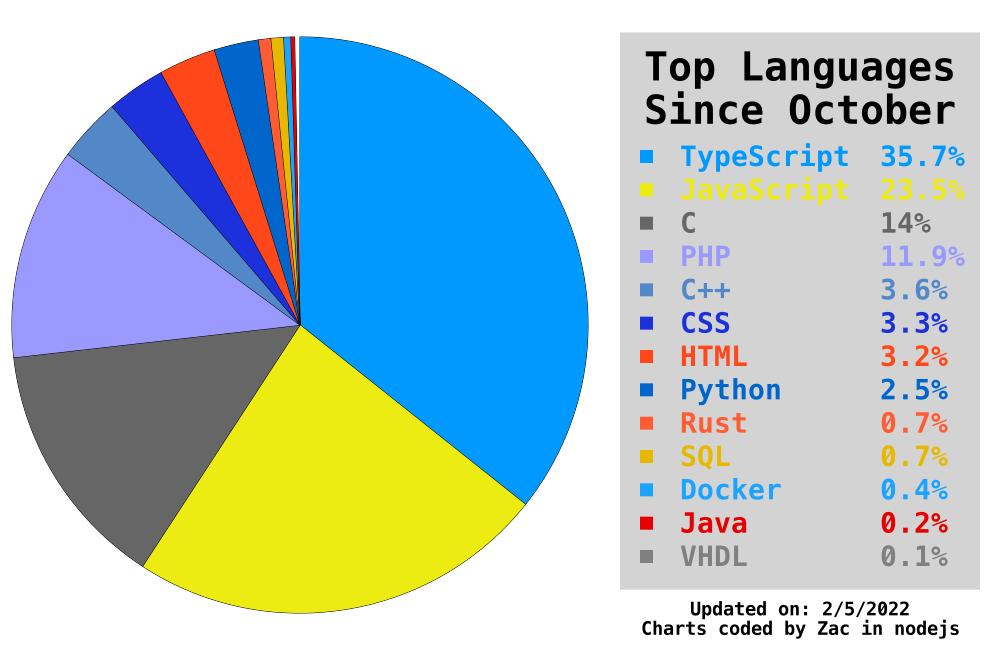
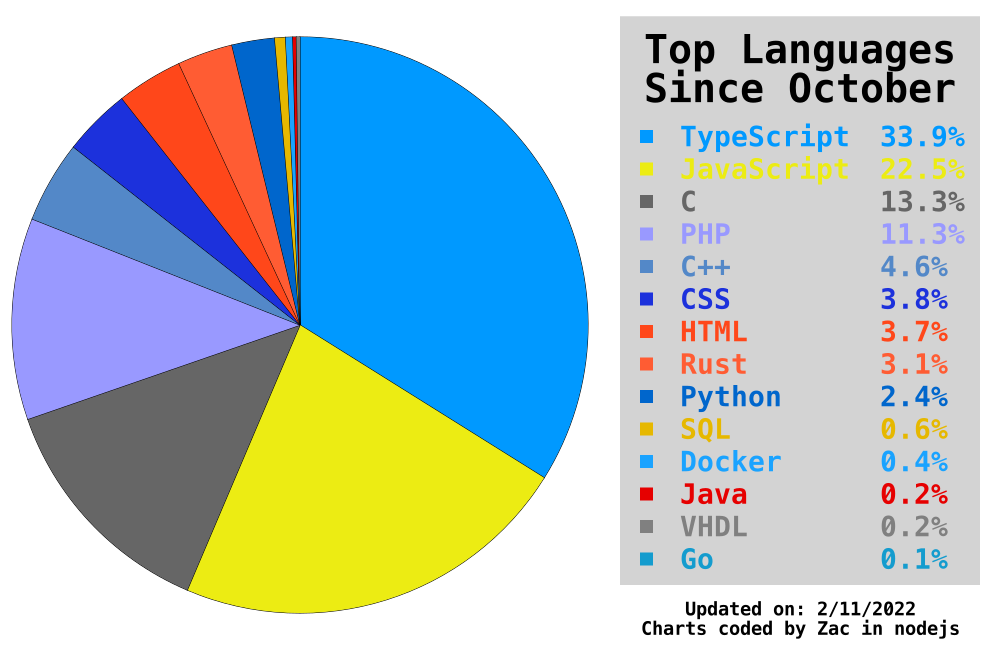
More languages

Changed region(s): [[0.62, 0.0, 0.992, 0.9538], [0.0, 0.0615, 0.558, 0.7692], [0.124, 0.5538, 0.279, 0.9231]]

diff --git a/src/piGraph.ts b/src/piGraph.ts
@@ -49,14 +49,14 @@ const createLegend = async (ctx: any, languages: any[], start: number, width:num
 	ctx.fillStyle = "white";
 	ctx.fillRect(start, 0, width, height); 
 	ctx.fillStyle = "lightgrey";
-	ctx.fillRect(start+ width/20, height/20, width-width/10, height-height/7);
+	ctx.fillRect(start+ width/20, height/40, width-width/10, height-height/8);
 	ctx.textBaseline = "top";
 	ctx.textAlign = 'center';
 
 	ctx.font = 'bold 30pt Menlo';
 	ctx.fillStyle = "black";
-	ctx.fillText("Top Languages", start+width/2, height/15);
-	ctx.fillText("Since October", start+width/2, 2*height/15);
+	ctx.fillText("Top Languages", start+width/2, height/25);
+	ctx.fillText("Since October", start+width/2, 2*height/20);
 
 	ctx.font = 'bold 21pt Menlo';
 	ctx.fillStyle = "black";
@@ -64,9 +64,9 @@ const createLegend = async (ctx: any, languages: any[], start: number, width:num
 	for (let i=0; i<languages.length; i++) {
 		let language = languages[i];
 		ctx.fillStyle = language.colour;
-		ctx.fillRect(start+width/10, (i+4.5)*height/19.5, height/50, height/50);
-		ctx.fillText(language.name, start+2*width/10, (i+4.2)*height/19.5);
-		ctx.fillText(language.percent.toString() + "%", start+7*width/10, (i+4.2)*height/19.5);
+		ctx.fillRect(start+width/10, (i+4)*height/20, height/50, height/50);
+		ctx.fillText(language.name, start+2*width/10, (i+3.7)*height/20);
+		ctx.fillText(language.percent.toString() + "%", start+7*width/10, (i+3.7)*height/20);
 	}
 	ctx.font = 'bold 14pt Menlo';
 	ctx.fillStyle = "black";

diff --git a/src/parseLanguages.ts b/src/parseLanguages.ts
@@ -74,6 +74,7 @@ const writeLanguages = async () => {
 						case "Markdown": colour = "#333333"; break;
 						case "C++": colour = "rgb(83, 136, 200)"; break;
 						case "VHDL": colour = "grey"; break;
+						case "Go": colour = "rgb(20, 156, 206)"; break;
 						default: colour = "white"; break;
 					}
 					languages.push({name:name, colour: colour, time:time, percent:0});
